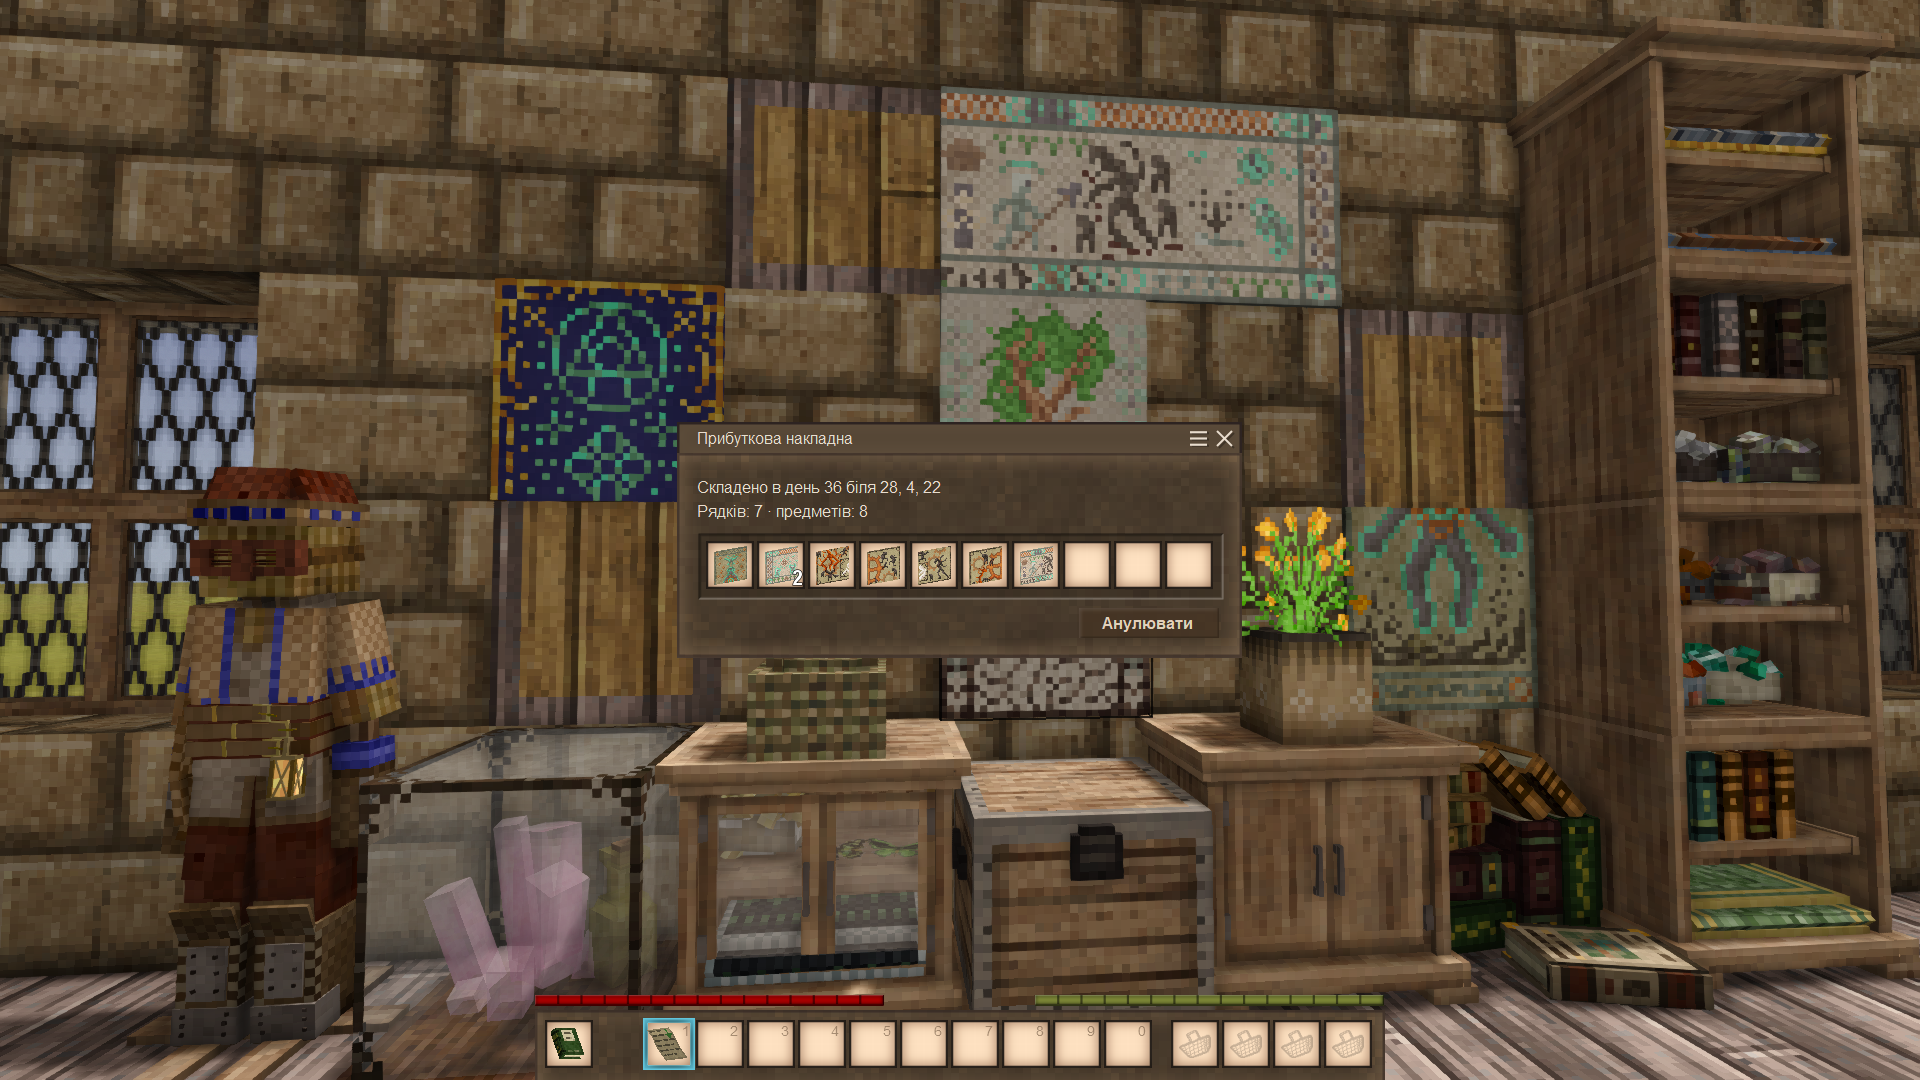
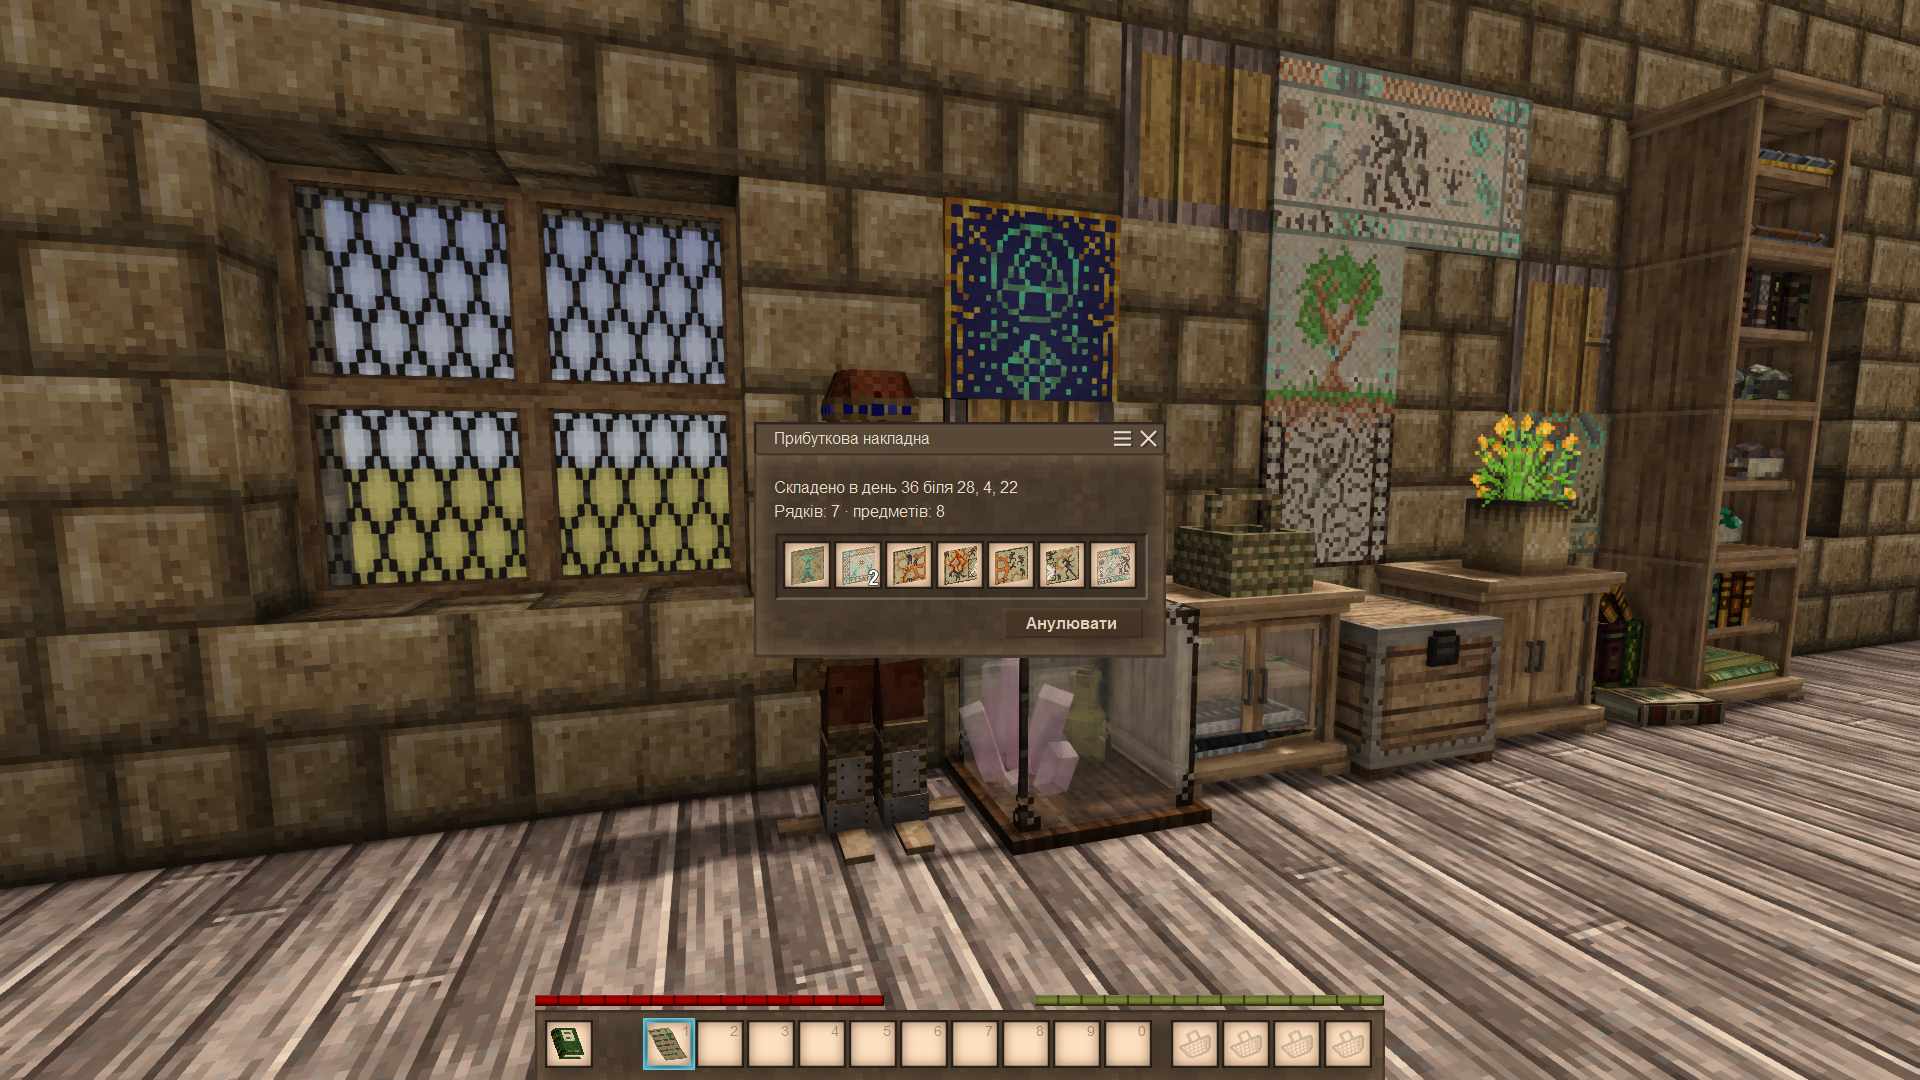
Screenshots of 0.2 in uk: 14 frames, final (0.2, R3b)

diff --git a/docs/plans/2026-11-04-release-0.2.md b/docs/plans/2026-11-04-release-0.2.md
@@ -82,9 +82,13 @@ branch with a test, a case in `functional.md` and a `CHANGELOG.md` line; a fix t
       name `curiocatalogue-album`; trial run in `en` from a rebuilt world, 14 frames that `Collect` and `Check` accepted.
       The `en` frames of the trial run are FINAL (the author, 19.11.2026), in `docs/images/`: `ledger-intake` was made from
       the basket by mistake and retaken alone in the same world (put in place by hand). R3b shoots only `uk`.
-  - [ ] **R3b. The shooting.** By `tools/studio/README.md`, `uk` from a rebuilt world (`en` was taken in R3a-2).
+  - [x] **R3b. The shooting.** By `tools/studio/README.md`, `uk` from a rebuilt world (`en` was taken in R3a-2).
         Branch: `docs/release-0.2`. After: R3a. Model: sonnet (the steps and the look at the frames). Author: shoots.
         Done when: the 28 files are in `docs/images/` and `Check` is clean.
+        Done 19.11.2026: the 14 `uk` frames FINAL (the author approved), in `docs/images/`; `Collect` and `Check` clean.
+        `title.uk` has the album in another page layout than `title.en` (6 rows, 1/2, against 5 rows, 1/3): accepted. The row
+        "Черепашка" (conch) on `collection-seashells.uk` stays: the album is "мушлі", one shell is "черепашка", as in the game.
+        The 0.1 files `album-window.*` and `album-chest.*` are still in `docs/images/`: R3c removes them.
   - [ ] **R3c. The shots in place.** `album-window` removed from `docs/images/` and from both descriptions (the hero becomes
         `title`); the guide's new pictures put in, both languages (the chest's three frames, `album-level`, `wantlist`, the
         butterflies' pair); the carousel takes the new frames; the page generated and its size written here.
@@ -301,3 +305,4 @@ critical, one major. All tests green at `e9677a3`; `BookEdgeTests.L5` flaked onc
 - 19.11.2026 (opus): R3a-2 done on `docs/release-0.2` (final, not yet committed): see the step; R3a is closed. Also found:
   `Prepare` did not remove the 0.1 macro `12-Shot_album-window.json` (another name pattern, same key Alt+2); renamed in the
   dev data folder by hand. Next: R3b (sonnet), only `uk`, from a rebuilt world.
+- 19.11.2026 (sonnet): R3b done on `docs/release-0.2` (final frames, not yet committed): see the step. Next: R3c (sonnet).
